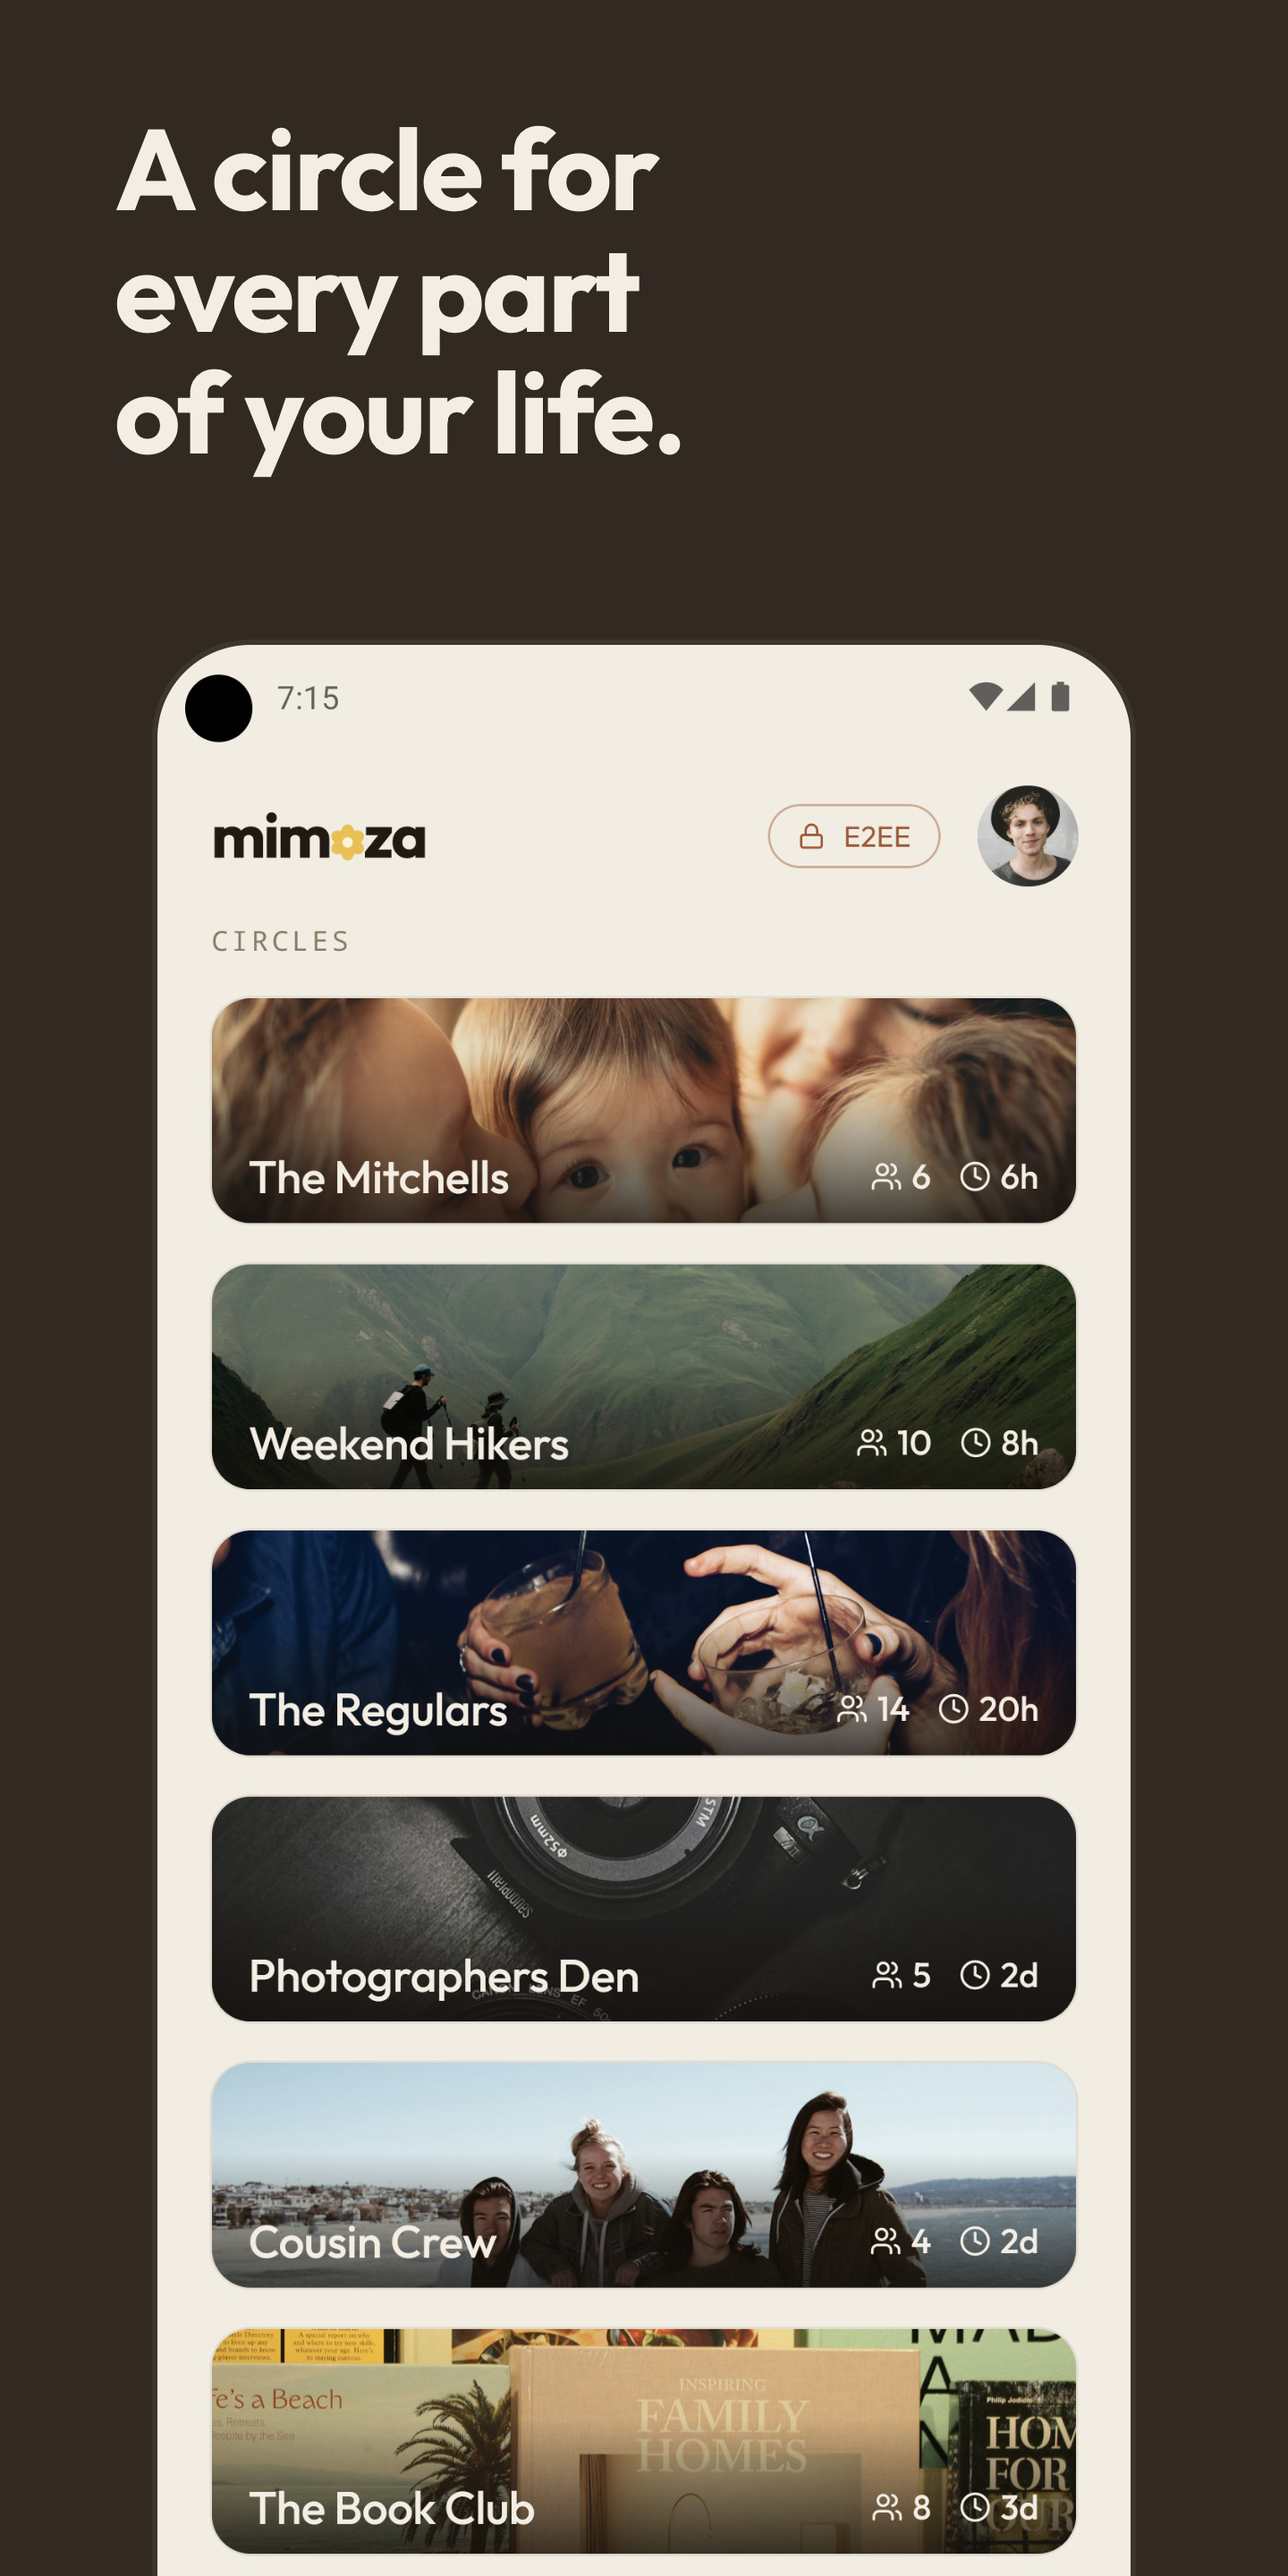
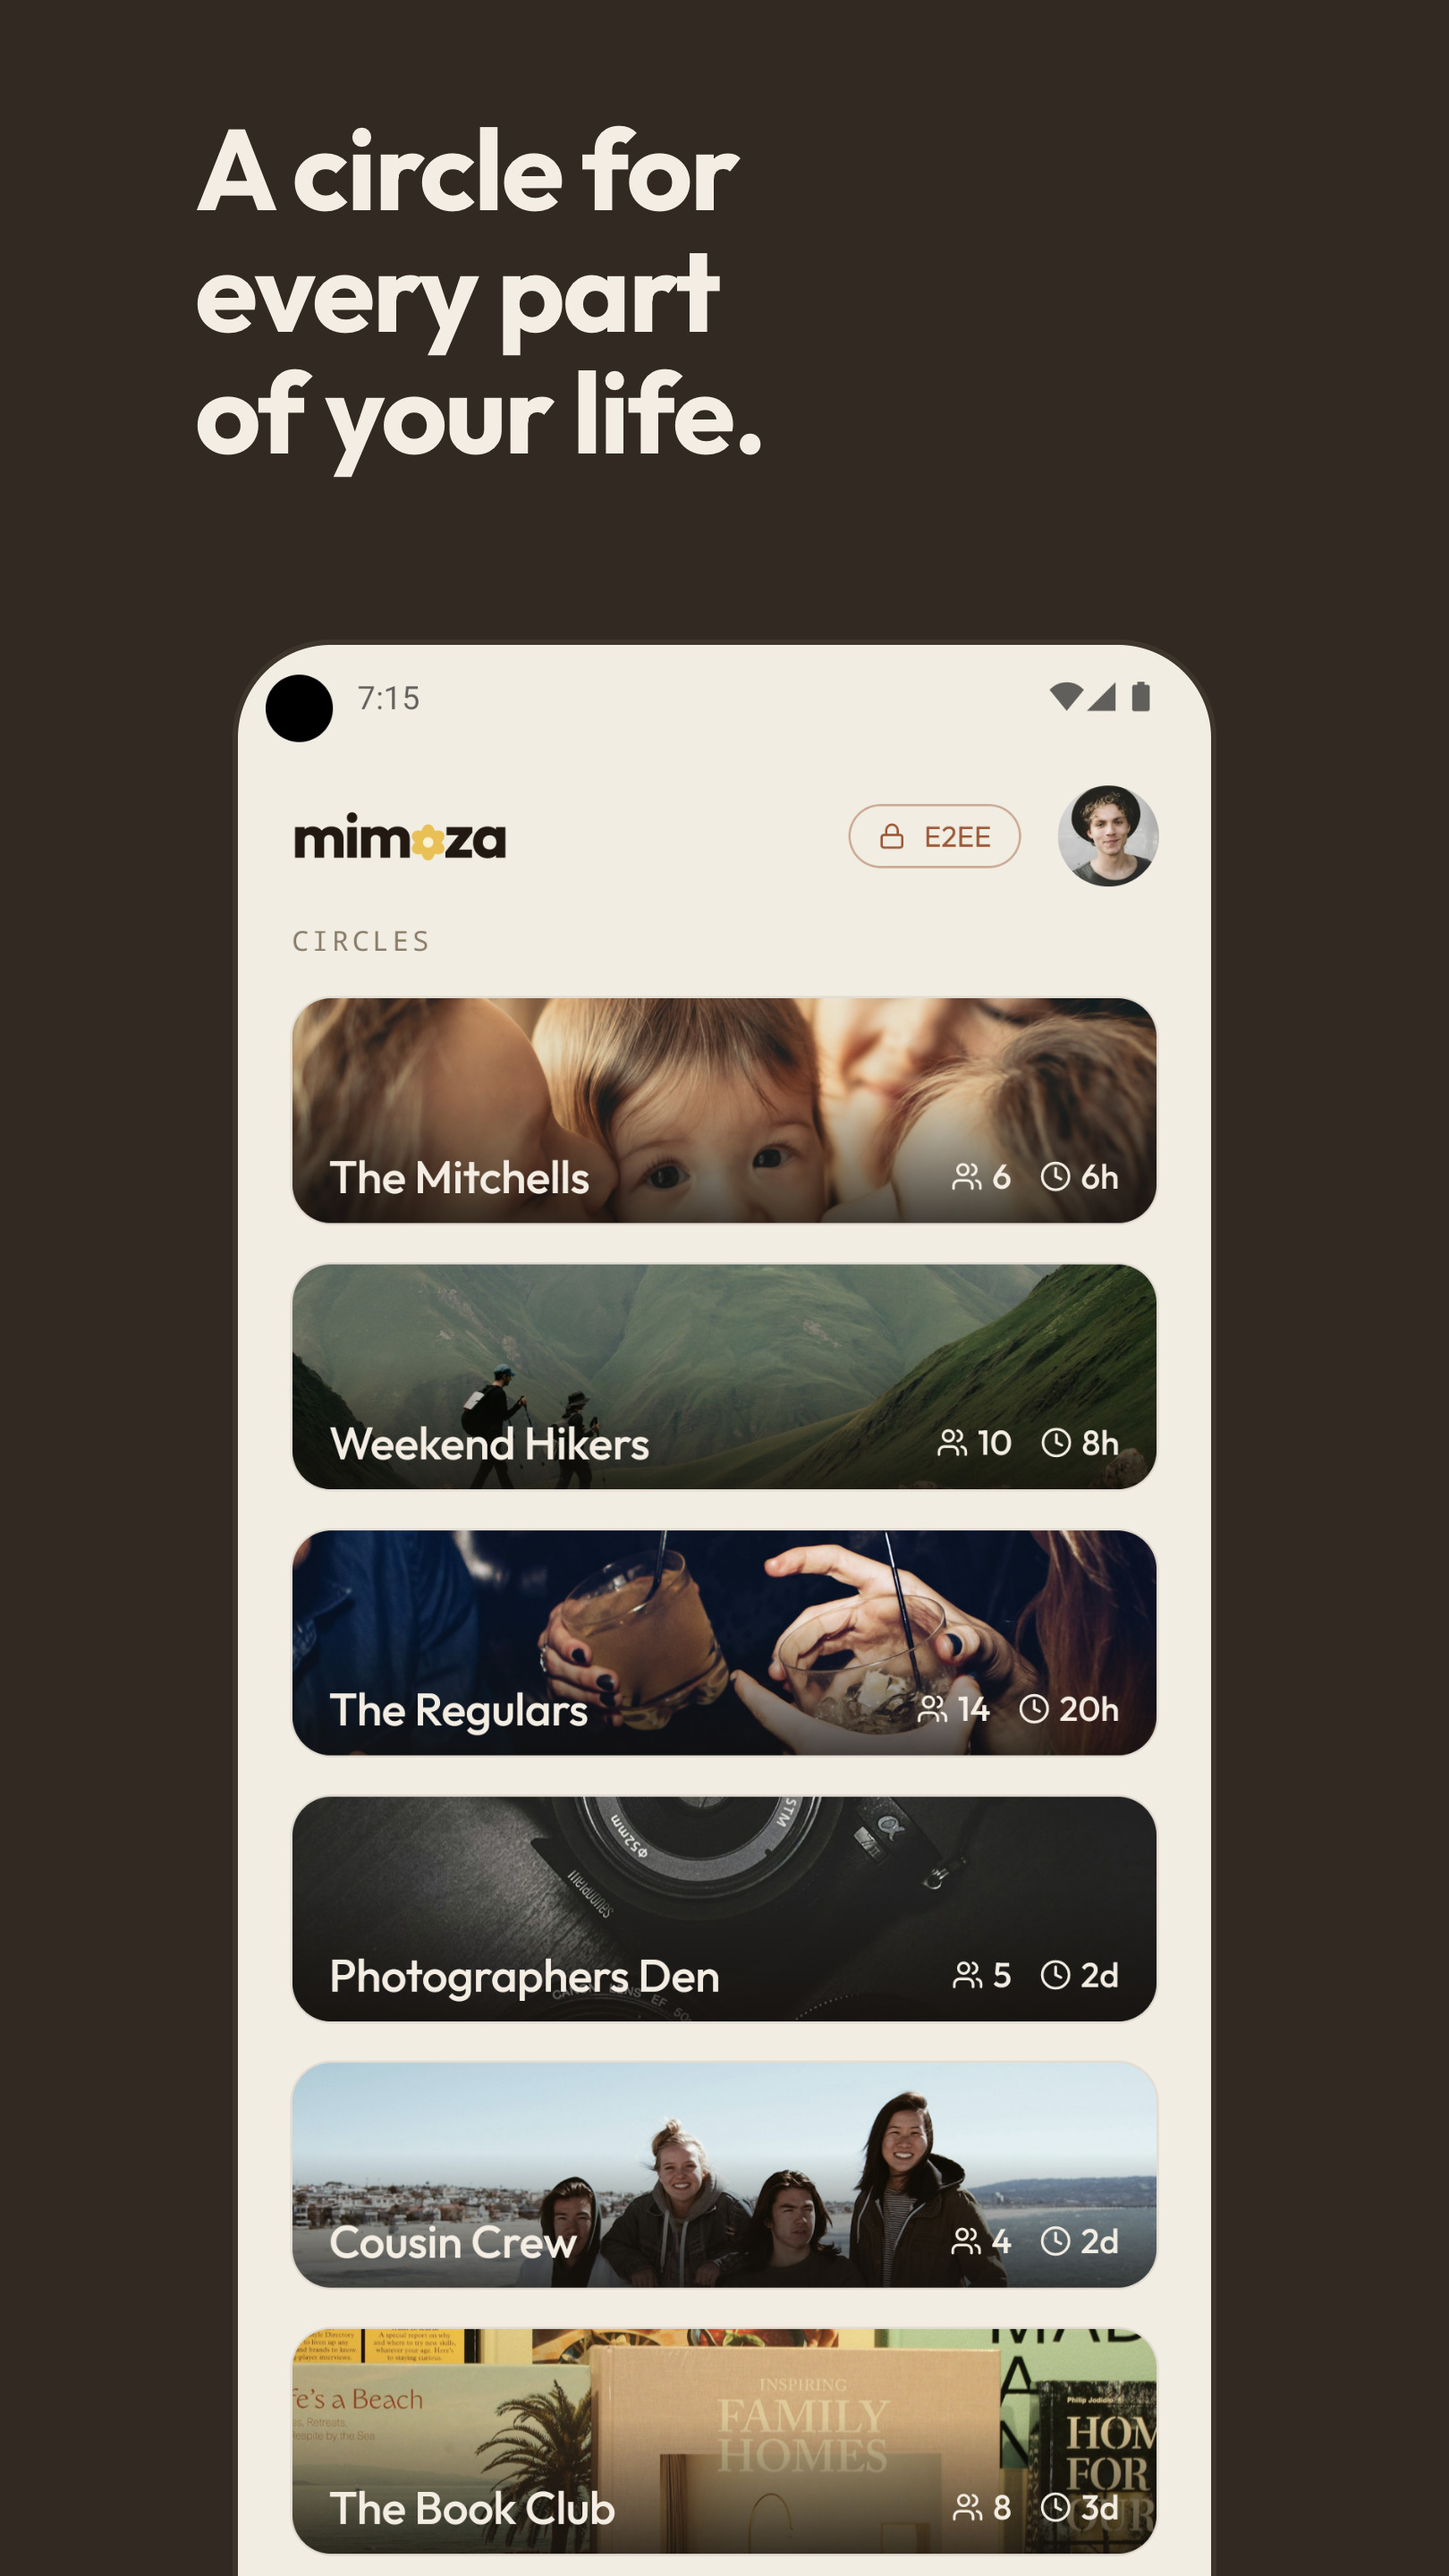
fix(app): center the Play feature graphic and make the Play screenshots 9:16
The feature graphic's lockup sat 56px left of center, the flower hung
below the wordmark, and the tagline started 6px left of it. Play's
console now asks for 16:9 or 9:16 screenshots, which 1440 × 2880 isn't,
so the Android artboards are 1620 × 2880 with the same content centered.

Changed region(s): [[0.125, 0.25, 0.875, 1.0], [0.0938, 0.0312, 0.5, 0.1875], [0.5312, 0.9062, 0.625, 0.9688]]

diff --git a/docs/LAUNCH_CHECKLIST.md b/docs/LAUNCH_CHECKLIST.md
@@ -267,10 +267,11 @@ Both stores, same shot list in the same order.
 
 **Google Play**
 
-- [x] Phone screenshots: 2 to 8. PNG or JPEG, each side 320 to 3840 px,
-      long side at most twice the short. A raw phone capture is taller
-      than 2:1 and gets rejected, so these are composed at 1440 × 2880
-      around the Android captures. — 2026-09-30
+- [x] Phone screenshots: 2 to 8. PNG or JPEG up to 8 MB, each side 320
+      to 3840 px, 16:9 or 9:16. A raw phone capture is taller than that,
+      so these are composed at 1620 × 2880 around the Android captures
+      (1440 × 2880 until 2026-11-08, when the console's rule tightened
+      from at most 2:1 to 9:16). — 2026-09-30
 - [x] Feature graphic: 1024 × 500 PNG or JPEG, required. No transparency,
       nothing important near the edges — it's cropped in some placements.
       — 2026-11-08
